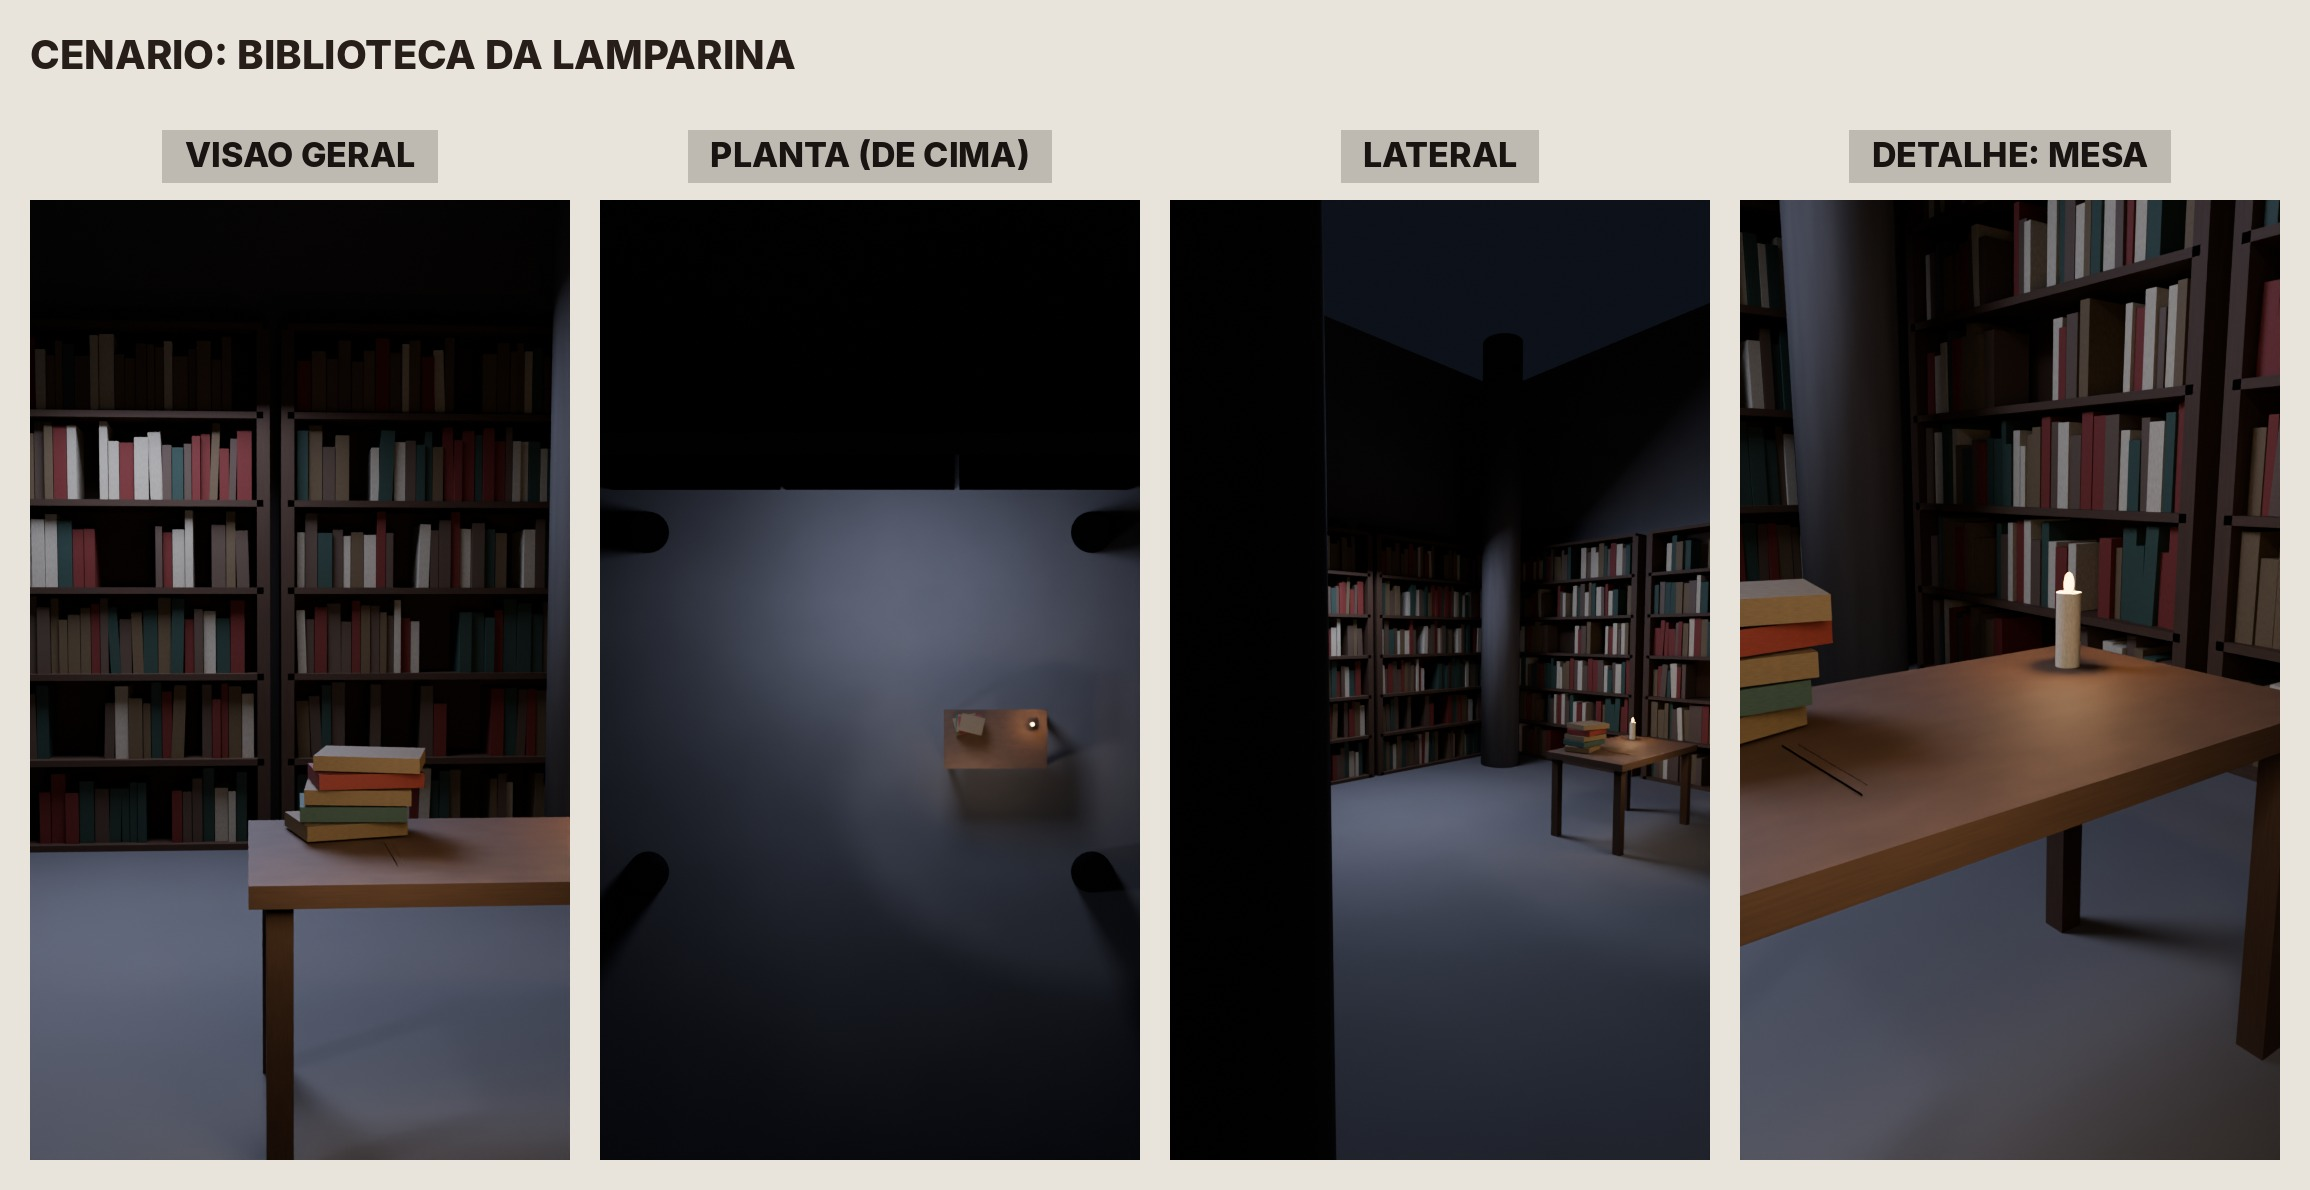
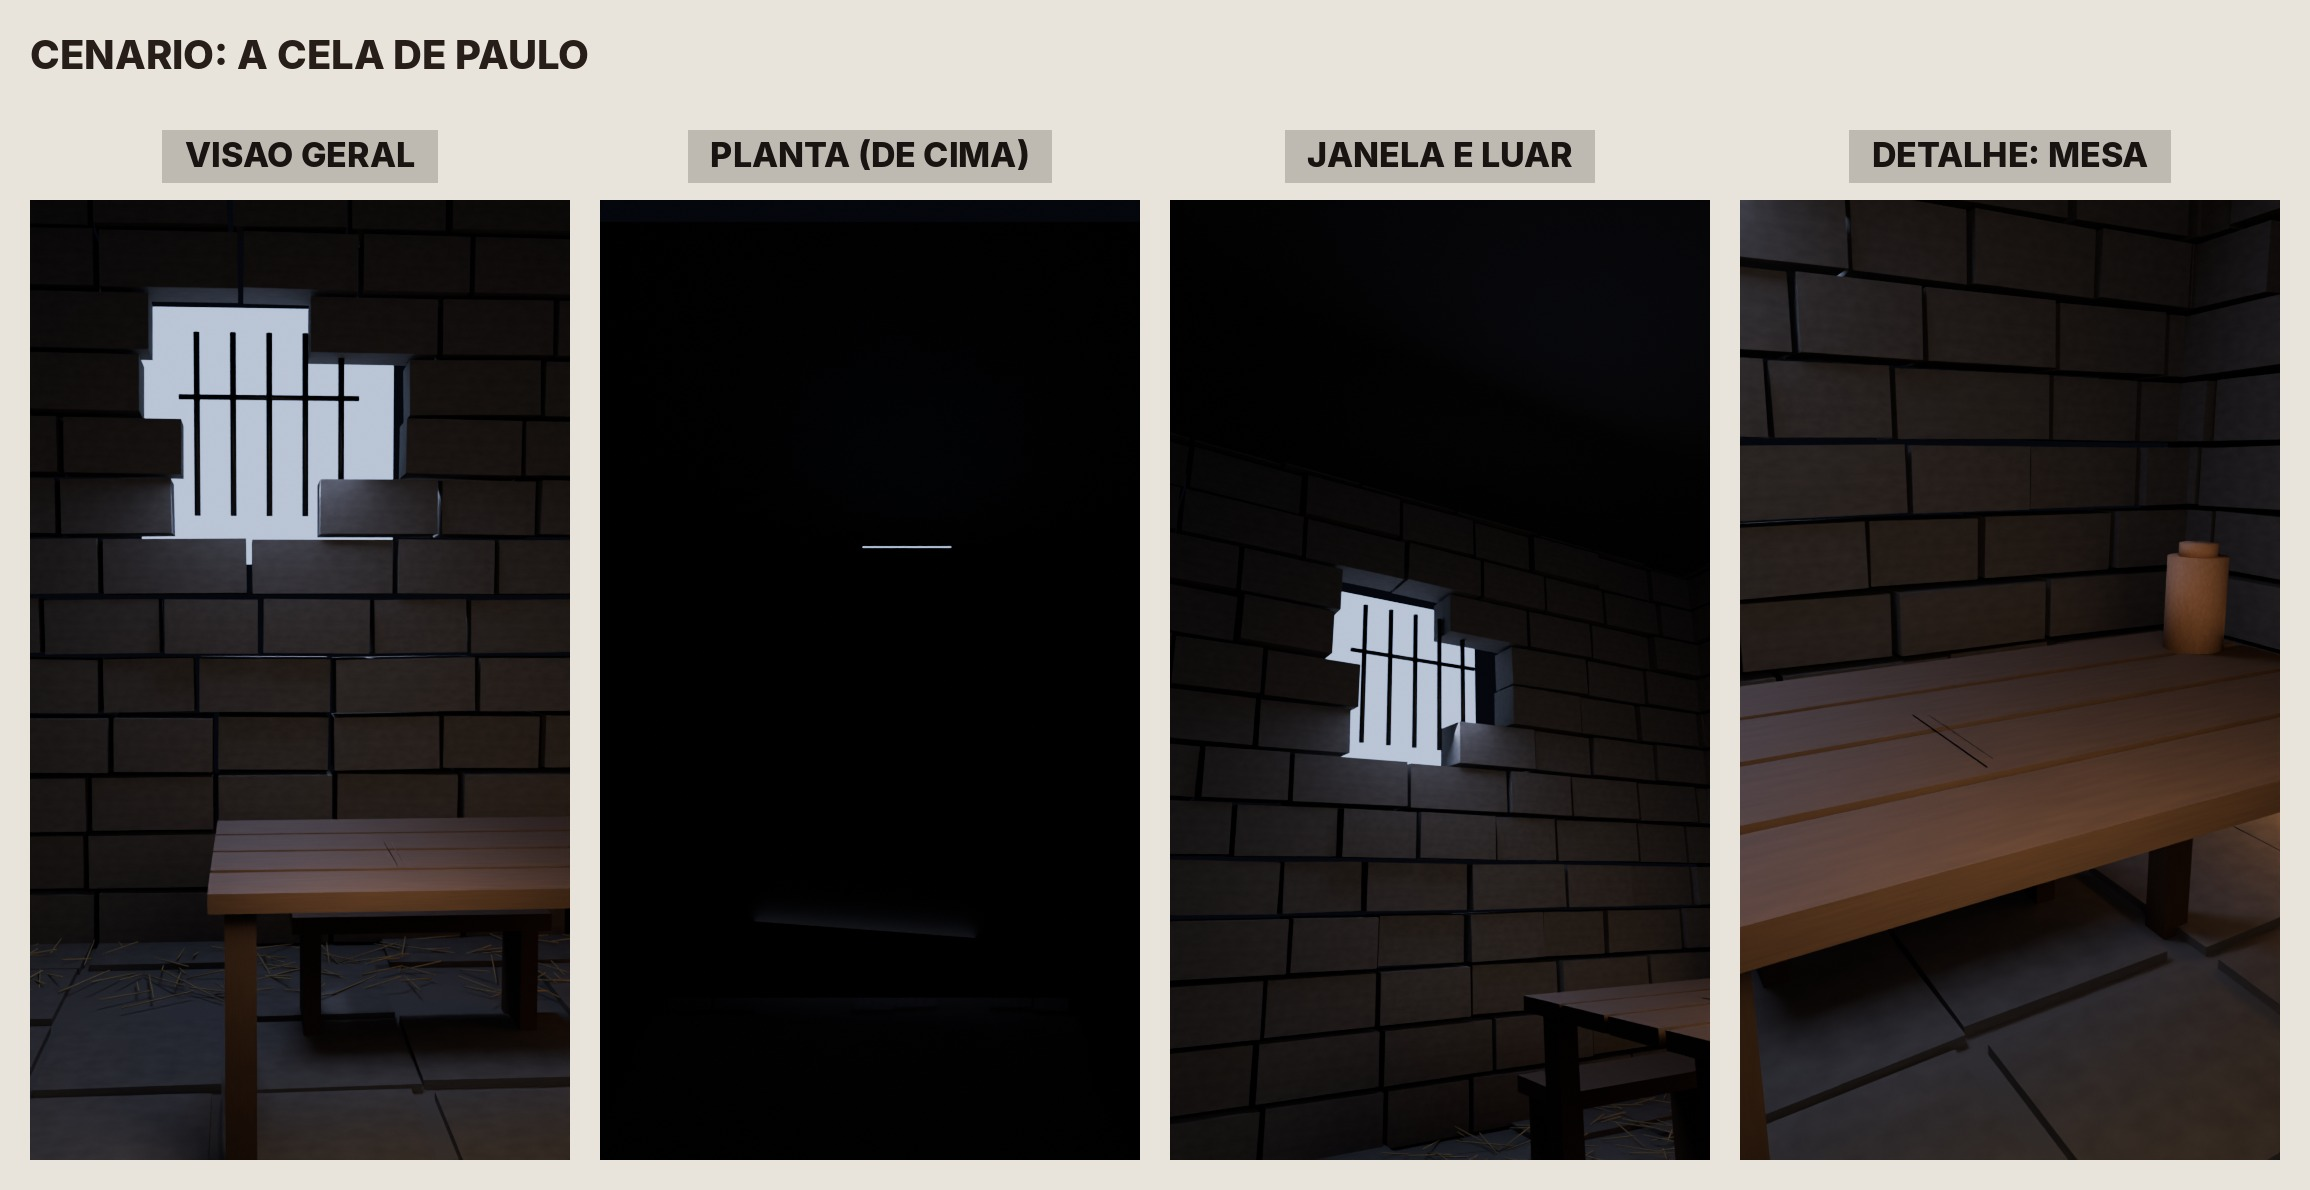
Cenario proprio: cela romana de pedra para A ultima carta; trilha por historia
Claude-Session: https://claude.ai/code/session_0146Xd1ZsDWpGpSHV77qDDph

diff --git a/animacao3d/cela.py b/animacao3d/cela.py
@@ -1,0 +1,191 @@
+"""Cenario: cela romana de pedra (prisao de Paulo, ano 67). Muro de blocos, janela alta com grade e luar,
+palha no chao, correntes na parede, porta de madeira com ferragens, mesa rustica, banco, jarro e pao.
+
+criar(col, m)                 -> monta a cela (a mesa fica no mesmo lugar da biblioteca: os planos servem)
+animar(col, m, p, faixas, h)  -> nuvens passando pela lua (a luz da janela respira)
+"""
+import math
+import random
+
+import bpy
+
+TITULO = "CENARIO: A CELA DE PAULO"
+VISTAS = [("VISAO GERAL", (0.4, -4.6, 2.0), (0.6, 0.4, 1.3), 24, False),
+          ("PLANTA (DE CIMA)", (0.6, -0.2, 9), (0.6, -0.2, 0), 9, True),
+          ("JANELA E LUAR", (-0.6, -2.2, 1.2), (1.2, 1.15, 2.3), 26, False),
+          ("DETALHE: MESA", (0.9, -1.6, 1.25), (1.6, -0.35, 0.85), 30, False)]
+
+MESA_Z = 0.81
+X0, X1, Y1, ALTO = -2.3, 3.4, 1.25, 3.4      # paredes: esquerda, direita, fundo; altura
+
+
+def _cubo(nome, loc, esc, mat, col, rot=None):
+    bpy.ops.mesh.primitive_cube_add(size=1, location=loc)
+    o = bpy.context.object
+    o.name, o.scale = nome, esc
+    if rot:
+        o.rotation_euler = rot
+    o.data.materials.append(mat)
+    for c in o.users_collection:
+        c.objects.unlink(o)
+    col.objects.link(o)
+    return o
+
+
+def _cil(nome, loc, r, h, mat, col, rot=None, verts=16):
+    bpy.ops.mesh.primitive_cylinder_add(vertices=verts, radius=r, depth=h, location=loc)
+    o = bpy.context.object
+    o.name = nome
+    if rot:
+        o.rotation_euler = rot
+    o.data.materials.append(mat)
+    bpy.ops.object.shade_smooth()
+    for c in o.users_collection:
+        c.objects.unlink(o)
+    col.objects.link(o)
+    return o
+
+
+def _luz(nome, tipo, loc, energia, cor, col, tam=0.2, alvo=None):
+    from mathutils import Vector
+    d = bpy.data.lights.new(nome, tipo)
+    d.energy, d.color = energia, cor
+    if tipo == "AREA":
+        d.size = tam
+    elif tipo == "SPOT":
+        d.spot_size, d.spot_blend, d.shadow_soft_size = math.radians(38), 0.35, tam
+    else:
+        d.shadow_soft_size = tam
+    o = bpy.data.objects.new(nome, d)
+    o.location = loc
+    col.objects.link(o)
+    if alvo:
+        o.rotation_euler = (Vector(alvo) - Vector(loc)).to_track_quat("-Z", "Y").to_euler()
+    return o
+
+
+def _muro(col, mat, rnd, ox, oy, eixo, comp, alto, furo=None):
+    """Parede de blocos de pedra com juntas irregulares (cada bloco um cubo levemente fora do plano)."""
+    h_bloco = 0.26
+    y = 0.0
+    fila = 0
+    while y < alto:
+        x = -0.25 * (fila % 2)
+        while x < comp:
+            w = rnd.uniform(0.42, 0.68)
+            cx, cz = x + w / 2, y + h_bloco / 2
+            if furo and furo[0] < cx < furo[1] and furo[2] < cz < furo[3]:
+                x += w
+                continue
+            prof = rnd.uniform(0.18, 0.24)
+            if eixo == "x":
+                loc = (ox + cx, oy + rnd.uniform(-0.02, 0.02), cz)
+                esc = (w - 0.025, prof, h_bloco - 0.025)
+            else:
+                loc = (ox + rnd.uniform(-0.02, 0.02), oy + cx, cz)
+                esc = (prof, w - 0.025, h_bloco - 0.025)
+            b = _cubo("bloco", loc, esc, mat, col, (rnd.uniform(-.015, .015), rnd.uniform(-.015, .015), rnd.uniform(-.01, .01)))
+            x += w
+        y += h_bloco
+        fila += 1
+
+
+def criar(col, m, semente=8):
+    import materiais
+    rnd = random.Random(semente)
+    pedra = materiais.simples("pedra_cela", (0.20, 0.18, 0.16), 0.92, ruido=0.6, escala_ruido=9, bump=0.6)
+    junta = materiais.simples("junta", (0.05, 0.045, 0.04), 1.0)
+    ferro = materiais.simples("ferro_cela", (0.12, 0.11, 0.10), 0.5, metal=1.0, ruido=0.3, escala_ruido=40)
+    palha = materiais.simples("palha", (0.62, 0.48, 0.22), 0.8, ruido=0.4, escala_ruido=50)
+    barro = materiais.simples("barro", (0.42, 0.22, 0.12), 0.75, ruido=0.3, escala_ruido=20, bump=0.2)
+    pao = materiais.simples("pao", (0.55, 0.34, 0.15), 0.8, ruido=0.5, escala_ruido=30, bump=0.5)
+    # chao de lajes
+    bpy.ops.mesh.primitive_plane_add(size=14, location=(0.5, -1, 0))
+    chao = bpy.context.object
+    chao.data.materials.append(pedra)
+    for i in range(-4, 7):
+        for j in range(-8, 3):
+            if rnd.random() < 0.85:
+                _cubo("laje", (i * 0.62 + rnd.uniform(-.03, .03), j * 0.55 + rnd.uniform(-.03, .03), 0.012),
+                      (0.58, 0.51, 0.03), pedra, col, (0, 0, rnd.uniform(-.03, .03)))
+    # paredes: o fundo tem a janela alta
+    _muro(col, pedra, rnd, X0, Y1, "x", X1 - X0, ALTO, furo=(3.0, 3.8, 1.9, 2.75))
+    _cubo("esq_massa", (X0 - 0.25, -1.5, ALTO / 2), (0.3, 6.0, ALTO), junta, col)
+    _muro(col, pedra, rnd, X0, -4.5, "y", Y1 + 4.5, ALTO)
+    _cubo("dir_massa", (X1 + 0.25, -1.5, ALTO / 2), (0.3, 6.0, ALTO), junta, col)
+    _muro(col, pedra, rnd, X1, -4.5, "y", Y1 + 4.5, ALTO, furo=(3.85, 4.95, 0.0, 2.15))
+    _cubo("teto", (0.5, -1.5, ALTO + 0.1), (6.4, 6.0, 0.2), junta, col)
+    # janela: abertura com grade e um ceu frio atras
+    jx, jz = X0 + 3.4, 2.32
+    for k in range(5):
+        _cil("grade", (jx - 0.32 + k * 0.16, Y1 + 0.02, jz), 0.014, 0.8, ferro, col)
+    _cil("grade_h", (jx, Y1 + 0.02, jz + 0.12), 0.012, 0.8, ferro, col, (0, math.radians(90), 0))
+    ceu = materiais.emissao("ceu_noite", (0.18, 0.26, 0.48), 0.55)
+    _cubo("ceu", (jx, Y1 + 0.35, jz), (1.2, 0.02, 1.2), ceu, col)
+    # porta de madeira com ferragens na parede direita
+    porta = _cubo("porta", (X1 - 0.08, -0.1, 1.05), (0.1, 1.05, 2.1), m["madeira"], col)
+    for z in (0.45, 1.05, 1.65):
+        _cubo("banda", (X1 - 0.14, -0.1, z), (0.03, 1.1, 0.08), ferro, col)
+    _cil("argola", (X1 - 0.17, -0.45, 1.0), 0.05, 0.015, ferro, col, (0, math.radians(90), 0))
+    # correntes na parede esquerda: argola chumbada e elos pendurados
+    for gy in (-0.6, 0.4):
+        _cil("argola_parede", (X0 + 0.14, gy, 1.75), 0.045, 0.02, ferro, col, (0, math.radians(90), 0))
+        for i in range(9):
+            bpy.ops.mesh.primitive_torus_add(major_radius=0.035, minor_radius=0.009,
+                                             location=(X0 + 0.16, gy + 0.01 * math.sin(i), 1.7 - i * 0.058))
+            e = bpy.context.object
+            e.rotation_euler = (0, math.radians(90), math.radians(90) if i % 2 else 0)
+            e.data.materials.append(ferro)
+            for c in e.users_collection:
+                c.objects.unlink(e)
+            col.objects.link(e)
+    # palha espalhada junto às paredes e um catre de palha
+    for i in range(520):
+        if i < 300:
+            x, y = rnd.uniform(X0 + 0.15, X0 + 1.4), rnd.uniform(-1.6, Y1 - 0.15)
+        else:
+            x, y = rnd.uniform(-1.5, 3.2), rnd.uniform(Y1 - 0.8, Y1 - 0.1)
+        _cil("palha", (x, y, 0.03 + rnd.random() * 0.04 * (i < 300)), 0.003, rnd.uniform(0.12, 0.3), palha, col,
+             (math.radians(90 + rnd.uniform(-15, 15)), 0, rnd.uniform(0, 6.3)), verts=5)
+    _cubo("catre", (X0 + 0.75, -0.3, 0.09), (1.1, 1.9, 0.14), palha, col)
+    # mesa rustica (o tampo fica na mesma altura e lugar da mesa da biblioteca)
+    for k in range(4):
+        _cubo("tabua_mesa", (1.6, -0.45 - 0.33 + k * 0.22, MESA_Z - 0.02), (1.4, 0.2, 0.05), m["madeira"], col,
+              (0, 0, rnd.uniform(-.01, .01)))
+    for dx in (-0.62, 0.62):
+        for dy in (-0.33, 0.33):
+            _cubo("pe_mesa", (1.6 + dx, -0.45 + dy, MESA_Z / 2 - 0.02), (0.08, 0.08, MESA_Z - 0.02), m["madeira"], col)
+    _cubo("banco", (1.6, 0.25, 0.42), (0.9, 0.3, 0.06), m["madeira"], col)
+    for dx in (-0.38, 0.38):
+        _cubo("pe_banco", (1.6 + dx, 0.25, 0.2), (0.06, 0.26, 0.4), m["madeira"], col)
+    # jarro de barro e pao duro no canto da mesa
+    jarro = _cil("jarro", (2.18, -0.2, MESA_Z + 0.11), 0.07, 0.22, barro, col, verts=24)
+    _cil("boca_jarro", (2.18, -0.2, MESA_Z + 0.235), 0.045, 0.03, barro, col, verts=24)
+    bpy.ops.mesh.primitive_uv_sphere_add(radius=1, location=(2.05, -0.72, MESA_Z + 0.03))
+    p = bpy.context.object
+    p.scale = (0.09, 0.06, 0.04)
+    p.data.materials.append(pao)
+    bpy.ops.object.shade_smooth()
+    # o processo procura o livro aberto da biblioteca para escondê-lo: deixamos um marcador oculto
+    marcador = _cubo("livro_aberto", (1.9, -0.5, MESA_Z), (0.01, 0.01, 0.01), m["papel"], col)
+    marcador.hide_render = True
+    # luzes: luar frio pela janela, preenchimento fraco, contraluz quente da porta (tocha no corredor)
+    _luz("luar", "SPOT", (jx + 0.4, Y1 + 1.6, jz + 0.8), 900, (0.55, 0.66, 1.0), col, 0.15, (1.3, -0.6, 0.6))
+    _luz("luar_ar", "AREA", (jx, Y1 - 0.3, jz), 25, (0.5, 0.6, 0.95), col, 0.8, (jx, -1.0, 0.8))
+    _luz("preenche", "AREA", (0.5, -4.0, 2.4), 22, (0.5, 0.55, 0.75), col, 3.0, (0.8, 0, 1.0))
+    _luz("frestas_porta", "AREA", (X1 - 0.3, -0.1, 0.05), 6, (1.0, 0.55, 0.25), col, 1.0, (X1 - 1.0, -0.1, 0.0))
+    mundo = bpy.data.worlds.new("noite_cela")
+    mundo.use_nodes = True
+    bg = mundo.node_tree.nodes["Background"]
+    bg.inputs[0].default_value = (0.006, 0.007, 0.012, 1)
+    bg.inputs[1].default_value = 1.0
+    bpy.context.scene.world = mundo
+
+
+def animar(col, m, p, faixas, h):
+    """Nuvens passando pela lua: a luz da janela oscila devagar."""
+    luar = bpy.data.objects["luar"].data
+    fim = faixas[-1][1]
+    for f in range(0, fim + 1, 24):
+        luar.energy = 900 * (0.75 + 0.25 * math.sin(f / 24 * 0.7) * math.sin(f / 24 * 0.23 + 1))
+        luar.keyframe_insert("energy", frame=f)

diff --git a/animacao3d/historia.py b/animacao3d/historia.py
@@ -486,6 +486,7 @@ CARTA = _jornada(
     ["Gancho: Elias diante da mesa escura.", "Etapa 1: a corrente de ferro aparece sobre a mesa.",
      "Etapa 2: o pergaminho se desenrola; a camera gira.", "Etapa 3: a pena escreve sobre o pergaminho.",
      "Etapa 4: a vela acende ao lado da carta.", "Etapa 5: o selo de cera, a carta enrolada; a corrente some."] + _FECHO)
+CARTA.update({"cenario": "cela", "clima": "sombria"})
 
 BABILONIA = _jornada(
     "O homem mais rico da Babilonia", "criar_babilonia", 0.86,

diff --git a/animacao3d/gerar.py b/animacao3d/gerar.py
@@ -234,7 +234,7 @@ def finalizar():
     if HIST.get("cenario") == "mar":
         audio, info = _trilha_mar(trilha, tempos, total + 0.5)
     else:
-        audio, info = trilha.compor("piano", total + 0.5)
+        audio, info = trilha.compor(HIST.get("clima", "piano"), total + 0.5)
     trilha.salvar(SAIDA / "trilha.wav", audio, info)
     fontes = SHORTS / "fontes"
     subprocess.run([
